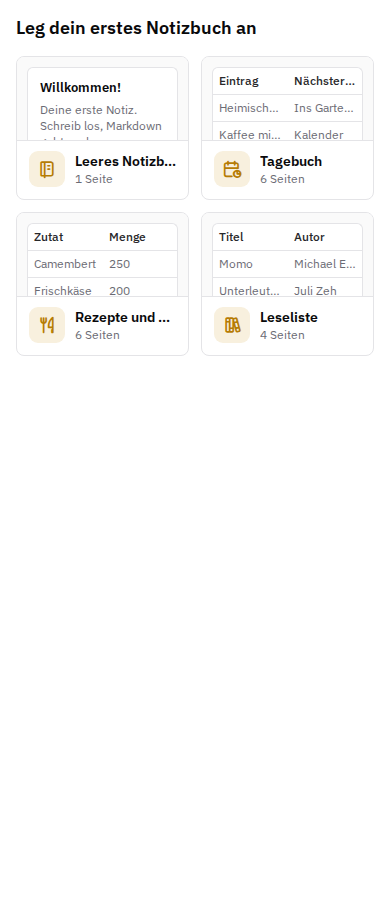
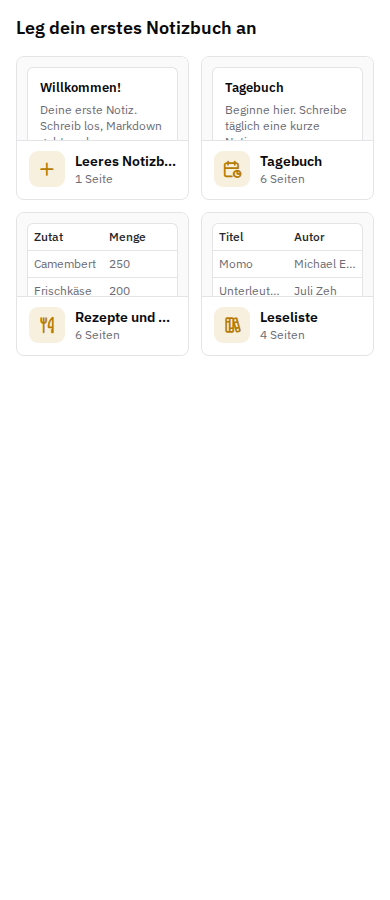
docs(ui): the first-start recipe draws the blank way with its plus and the diary with its page, as the mockup

Changed region(s): [[0.5538, 0.0622, 0.8923, 0.1556], [0.0923, 0.1556, 0.1538, 0.2178]]

diff --git a/packages/ui/skills/k2b-ui/recipes/start.tsx b/packages/ui/skills/k2b-ui/recipes/start.tsx
@@ -8,7 +8,7 @@ const APP = "#ca8a04";
 
 const notebooks: Tile[] = [
   {
-    icon: "notebook",
+    icon: "plus",
     title: "Leeres Notizbuch",
     meta: "1 Seite",
     color: APP,
@@ -20,16 +20,7 @@ const notebooks: Tile[] = [
     title: "Tagebuch",
     meta: "6 Seiten",
     color: APP,
-    preview: {
-      table: {
-        columns: ["Eintrag", "Nächster Schritt", "Status"],
-        rows: [
-          ["Heimische Hecke", "Ins Gartentagebuch", "nächste Durchsicht"],
-          ["Kaffee mit Anna", "Kalender", "geplant"],
-          ["Buch über Üben", "Recherchieren", "ausstehend"],
-        ],
-      },
-    },
+    preview: { page: { title: "Tagebuch", text: "Beginne hier. Schreibe täglich eine kurze Notiz." } },
     onOpen: () => undefined,
   },
   {
